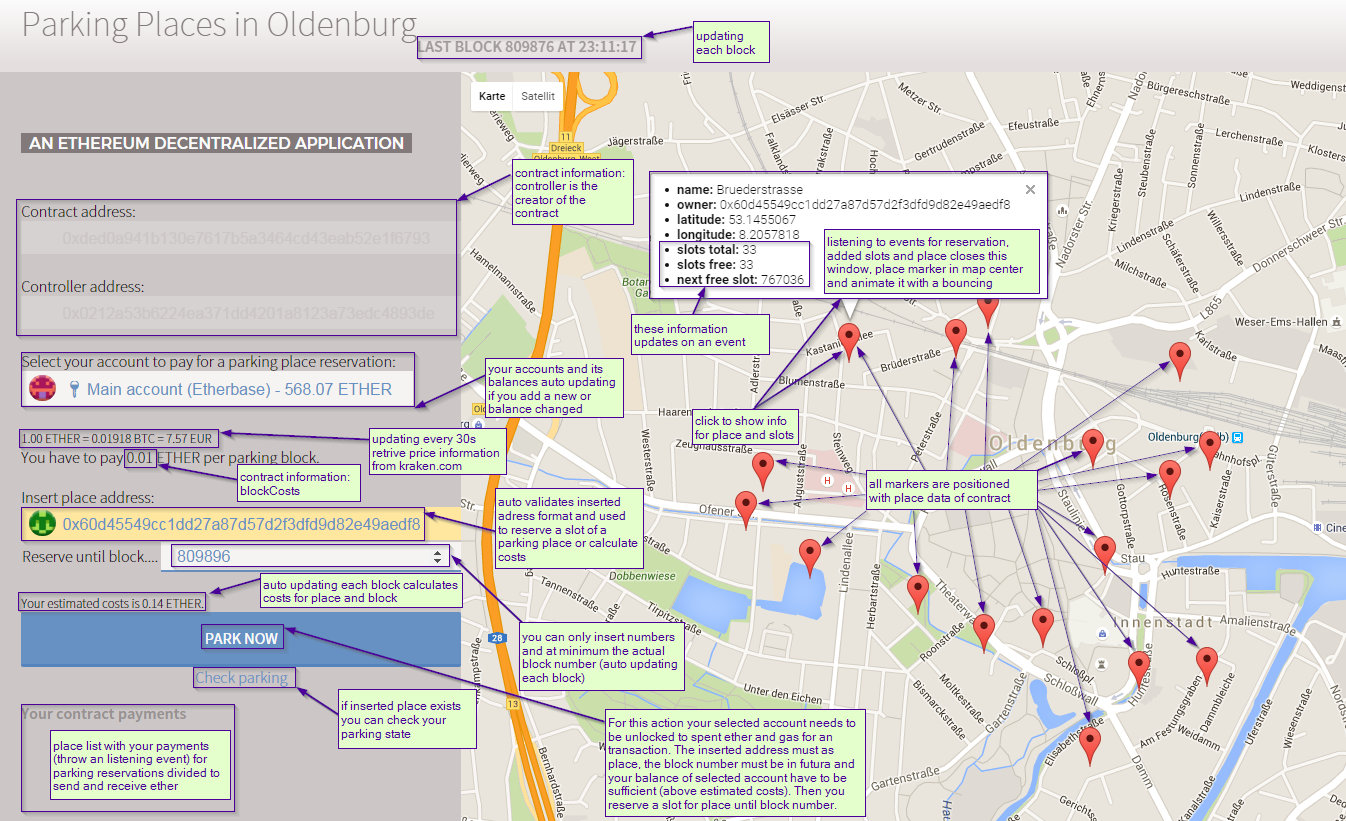
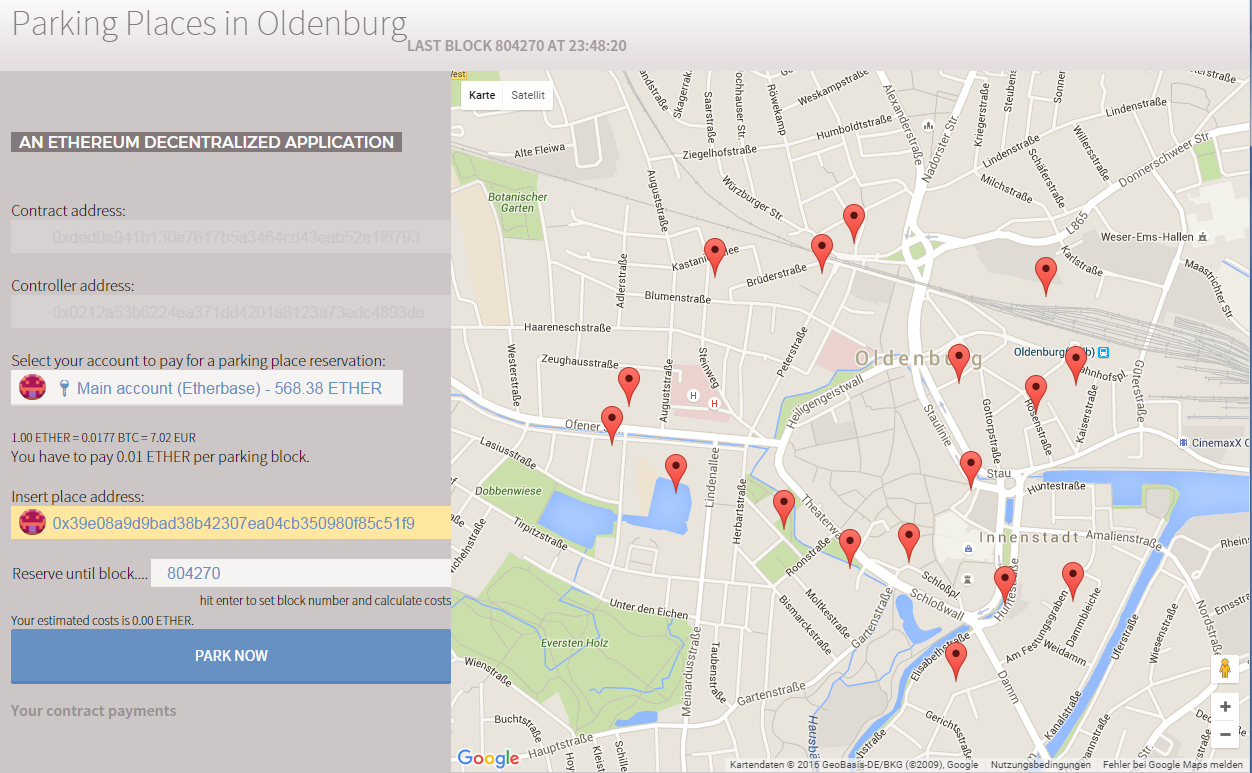
change first picture without description and add own part at last

diff --git a/parking-dapp/README.md b/parking-dapp/README.md
@@ -31,3 +31,8 @@ You should your own deployed contract cause this is volatile. Then you should ch
     //contract address
     const CONTRACT_ADDRESS = "0xded0a941b130e7617b5a3464cd43eab52e1f6793";
 
+## Detailled description
+
+![](https://raw.githubusercontent.com/blakeberg/parking-dapp/master/parking-dapp/ressources/pp-overview-description.png)
+
+
